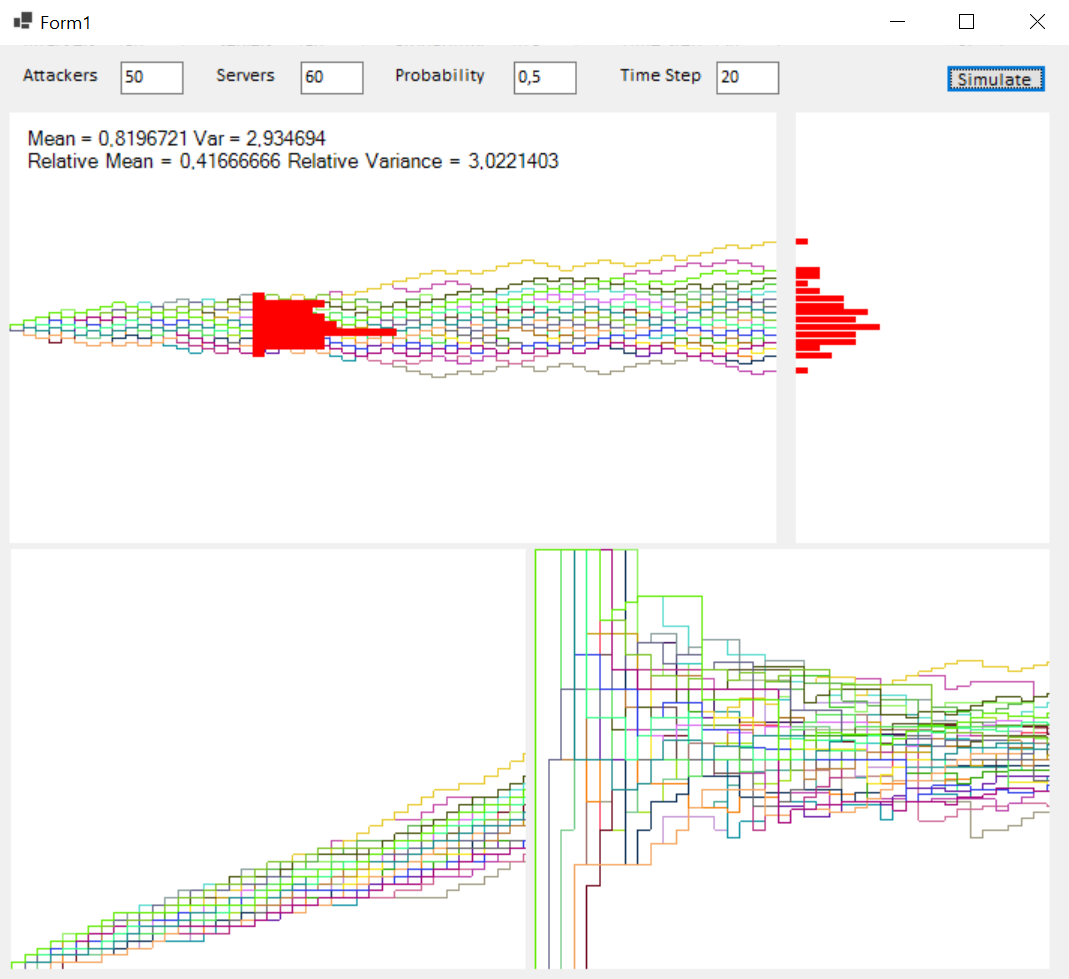
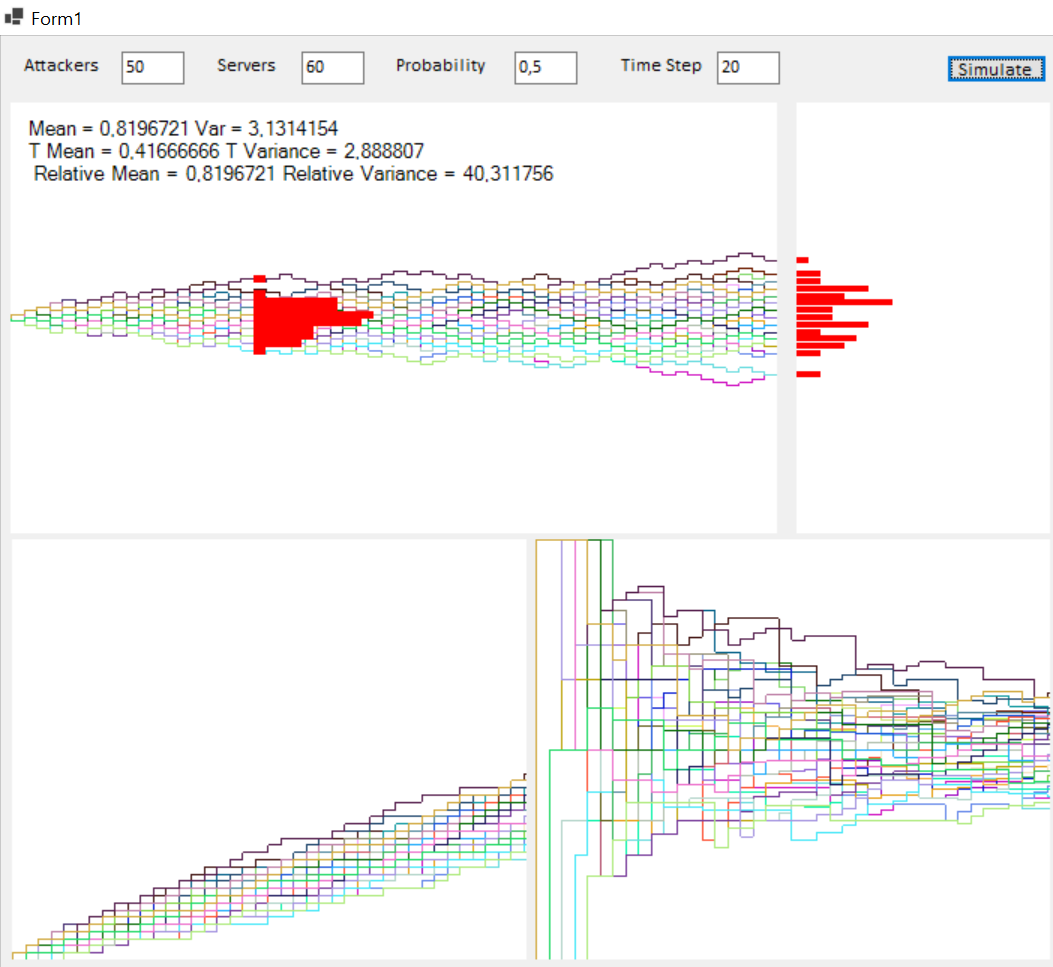
homework2

diff --git a/_portfolio/project1.md b/_portfolio/project1.md
@@ -44,6 +44,10 @@ This stocastic process using the Euler-Maruyama method simulates multiple attack
 
 Shows the overall attack progression for each attacker as they succeed or fail in exploiting vulnerabilities. This is done by emulating a random walk with parameters +1 in case of success and -1 otherwise. Furthermore, in order to understand the performance of the simulation for a given intermediate time t, the distribution at that time is calculated with its mean and variance.
 
+![Code for t interval](/assets/img/portfolio/codedelta.jpg)
+
+Similar to the one on previous homework this method is used to draw the histogram for a given input delta t used to select the partial time on the x-axis. 
+
 **Absoloute Frequency**
 
 ![Absoloute Frequency](/assets/img/portfolio/absoloute.jpg)
@@ -58,6 +62,25 @@ Shows the overall attack progression for each attacker as they succeed or fail i
 Relative trajectories in this context represent the success rate of attackers over time, visualized on the relative graph. Unlike absolute trajectories, which track the total number of successful attacks, relative trajectories focus on the ratio of successes to attempts, providing a measure of how efficiently an attacker is performing as they continue to interact with servers.
 By examining relative trajectories, you can understand not just how many successes an attacker achieved, but how effectively they achieved them throughout the simulation.
 
+**Personal considerations**
+
+**Mean:**
+
+The absolute mean is approximately 0.8197, which suggests the average outcome of the simulated process when considering all samples. This value reflects the central tendency of the data.
+The relative mean, which is also 0.8197, implies that the mean value normalized to the relative context (e.g., proportion of success or frequency in comparison to a total) is the same as the absolute mean. This might be due to the nature of the simulation, where the absolute measure directly translates into a proportion.
+
+**Variance:**
+
+The absolute variance is 3.1314, indicating the spread or dispersion of the values around the mean. A higher variance suggests that the data points are more spread out from the mean.
+The relative variance, 40.3118, is much higher than the absolute variance. This could mean that when adjusting for the relative context (e.g., the variance of a proportion or frequency), the spread becomes more significant. This is often seen when probabilities or proportions are translated into relative measures, which can exaggerate variability.
+
+**T Mean and T Variance:**
+
+The T Mean (0.4167) and T Variance (2.8888) might be derived from a transformed or secondary variable within the simulation. These values are lower than the absolute measures, suggesting that the transformed data have a lower central tendency and slightly less variability.
+
+**Conclusions**
+
+Overall, the mean and variance values suggest a simulation with some spread, and the difference between absolute and relative variance hints at a model where proportions introduce additional variability.
 
 [Homework2.rar](https://github.com/GabrielePapalino/statistics/raw/refs/heads/main/Homework%201.rar)
 
